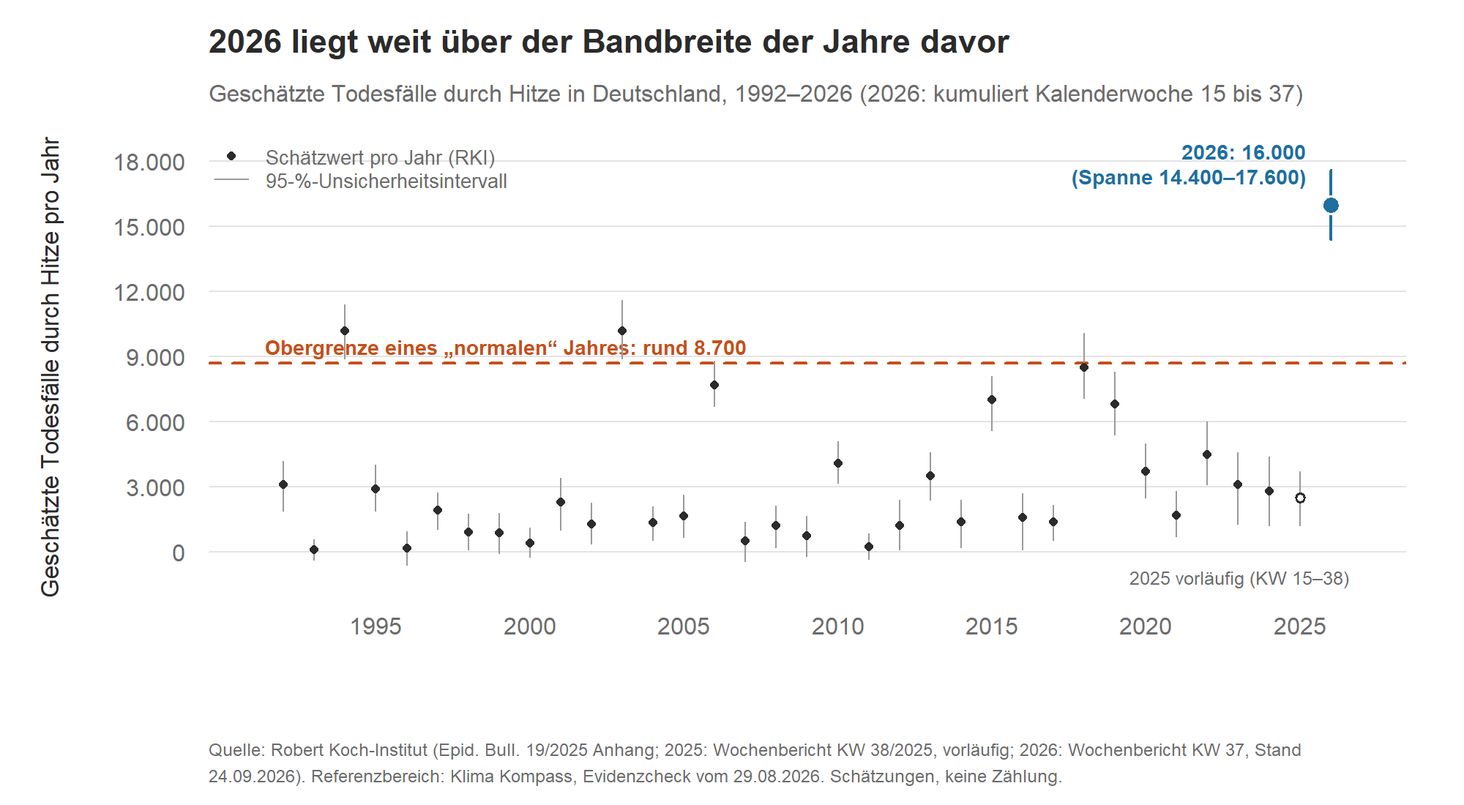
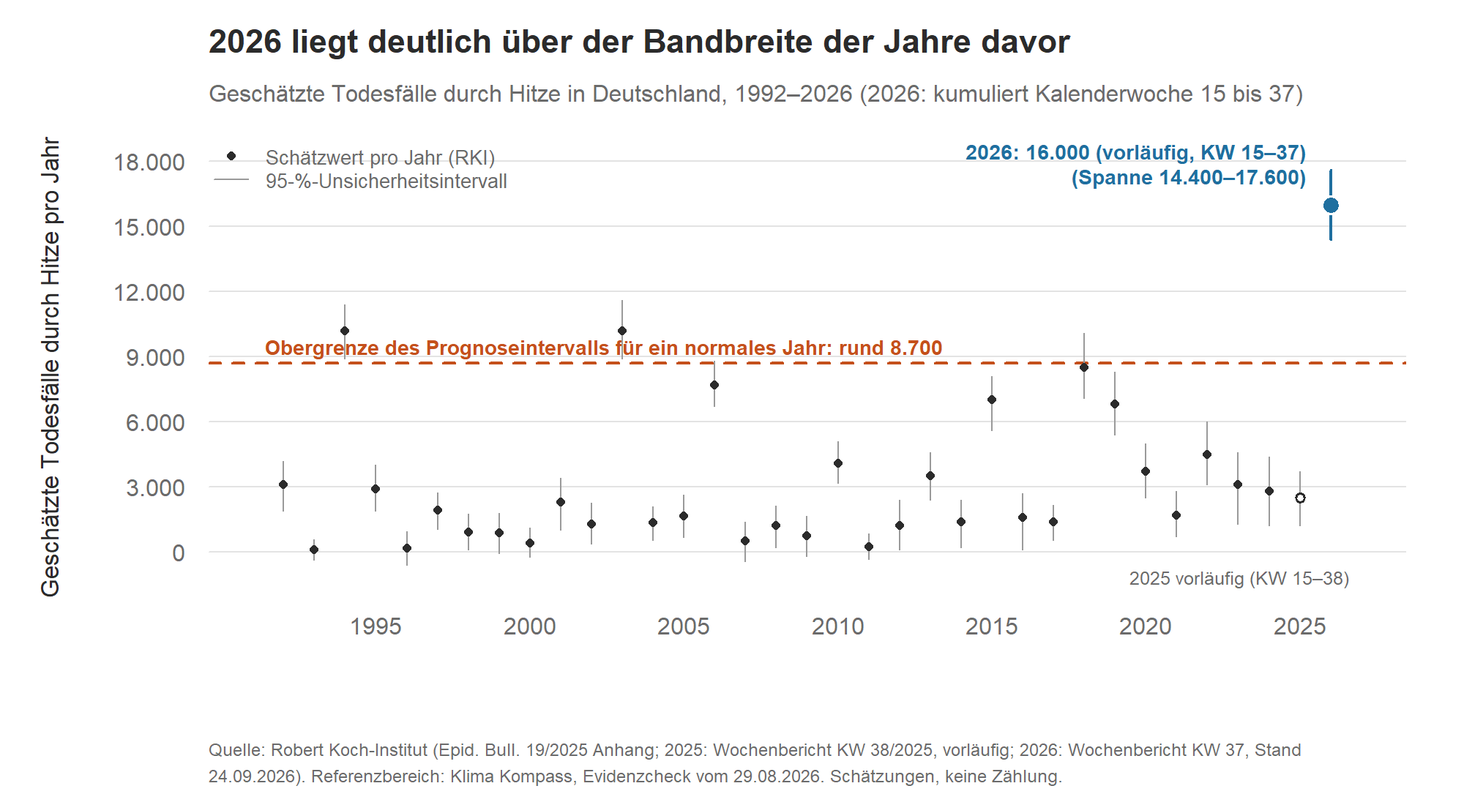
Jahrbuch 2026: Faktencheck Kapitel 1 Nachtrag 5 (ok mit Auflagen), Kapitel 1 v0.8 mit N26-N30, Grafikbeschriftungen angepasst
Freigabe durch Daniel Saure steht aus.

diff --git a/Publikationen-oeffentlich/jahrbuch-2026/pruefung/faktencheck_kap01.md b/Publikationen-oeffentlich/jahrbuch-2026/pruefung/faktencheck_kap01.md
@@ -596,7 +596,7 @@ Alle acht sind in v0.6 umgesetzt (Textstellen):
 6. **N24 (gering), Platzhalter [GRAFIK 1] und [GRAFIK 2]:** (a) GRAFIK 1: Quelle „DWD, Climate Data Center, Stand 2. September 2026“ statt „[1]“; Werte 2025 und 2026 als vorläufig kennzeichnen; Einstufungsbänder als „Konvention dieses Checks“ beschriften (Validator AV4). (b) GRAFIK 2: Quelle „RKI (EB 19/2025 Anhang, Wochenbericht KW 38/2025, Wochenbericht KW 37/2026) [4][6], Obergrenze aus [3]“ statt „[3] und [4]“; 2025 als vorläufig kennzeichnen; festlegen, ob für 2026 der KW-37-Wert (16.000 [14.400; 17.600], wie im Text) gezeigt wird; Einheit „geschätzte Sterbefälle pro Jahr (kumuliert KW 15 bis KW 38 bzw. 37)“ und Datenstand angeben.
 7. **N25 (gering), Z. 61:** „die geschätzten 16.000 Todesfälle durch Hitze“ passt zur sensiblen Sprache, schreibt aber das Wort „geschätzten“ dem Interview zu. Vorschlag: „Als Belege nennt er unter anderem die 16.000 Todesfälle durch Hitze (eine RKI-Schätzung) und den MedienKlimaBericht ...“ oder wörtlich nach [5]: „... die „16.000 Hitzetoten“ dieses Sommers ...“ (Zitat nach [5], als Zitat zulässig).
 
-**Empfehlungen (nicht zwingend):**
+**Empfehlungen (nicht zzwingend):**
 
 - **E12:** Titel „... und welche Folgen hatte er?“: „Folgen“ legt Kausalität nahe (und deckt die Mediendebatte nicht). Alternativen: „War dieser Sommer normal, und was zeigen die Zahlen zu Todesfällen und Berichterstattung?“ oder „... und was sagen die Zahlen?“. Kapitelplan, Gliederung (beide) und Überblick R2 an den endgültigen Titel angleichen (dort noch „was hat er gekostet?“).
 - **E13:** In „Woher wir das wissen“ die WWA-Quelle und den Zugriff vom 23.10.2026 nennen („Attribution: WWA, Seite am 23.10.2026 ausgewertet [9]“).
@@ -634,4 +634,132 @@ Alle acht Auflagen aus Nachtrag 3 sind erfüllt. Die neuen Teile sind überwiege
 - **MedienKlimaBericht-PDF online:** nur lokale Textkopie.
 - **Commit-Diff v0.5/v0.6:** kein Git-Zugriff; Vergleich gegen den in Nachtrag 3 geprüften Text und die jeweils aktuelle Datei. Änderungen in v0.5, die in v0.6 wieder überschrieben wurden, sind nicht erfasst.
 - **Grafiken selbst:** nur Platzhalterbeschreibungen; Grafikdateien und Werte werden nach Erstellung gegen die Quellen zu prüfen sein.
+- **Wortzahl und Umfang:** nicht gezählt.
+
+---
+
+## Nachtrag 5 (Prüfung nach v0.7, Grafiken)
+
+**Geprüft:** `Publikationen-oeffentlich/jahrbuch-2026/kapitel/01-sommer.md`, v0.7 (Kopfzeile „ENTWURF v0.7 (23.10.2026)“) und die drei Grafiken `grafiken/kap01_grafik1_sommertemperatur.png`, `kap01_grafik2_todesfaelle_hitze.png`, `kap01_grafik3_klima_minuten.png` samt Skript `grafiken/kap01_grafiken.R`. Weder Kapitel noch Grafikdateien verändert. Zeilenangaben „Z.“ beziehen sich auf v0.7.
+**Prüfdatum:** 23.10.2026
+**Prüfer:** Subagent `faktenpruefer` (unabhängig, nicht Autor). **Dieser Nachtrag enthält keinen Freigabevermerk.**
+**Herangezogen:** die PNG-Dateien (als Bilder gelesen), das R-Skript (vollständig), `Analysen/2026-09-sommer-2026-normal/rohdaten/dwd_sommer_deutschland.csv` (Zeilen 120–147) und `output/ergebnisse.json` (Integritätsblock), `Analysen/2026-08-hitzesommer-2026/rki_hitzebedingte_sterbefaelle_rohdaten.csv` (vollständig), MedienKlimaBericht-Textkopie (Nachtrag 4), `gliederung_kap01-06.md`, `gliederung_kap07-10.md` (Kap. 8), `kapitelplan.md` (Titelzeile). Nicht ausgeführt: das R-Skript (R nicht verfügbar); die Bilder wurden mit den Skript-Daten abgeglichen.
+
+### N5.1 Status der Auflagen N19–N25 und Empfehlungen E12–E16
+
+| Punkt | Status | Textstelle in v0.7 | Prüfhinweis |
+|---|---|---|---|
+| **N19** Gültigkeitsbereich WWA, Deutschland | **erfüllt** | Z. 63: „Sie untersucht die Hitzewelle vom 18. bis 29. Juni in Westeuropa (Frankreich, Deutschland, Italien, Spanien, Südengland). Für Deutschland allein nennt die Seite keine eigenen Zahlen.“ | Deckt sich mit der Seite (Länderliste, 18.–29. Juni, keine eigene Auswertung für Deutschland). Feinhinweis in N30. |
+| **N20** „Klima von 1976/2003“, „als heute“ | **erfüllt** | Z. 65: „Die Initiative vergleicht die Hitzewelle mit dem Klima früherer Jahre. Im Klima von 1976 wären solche Temperaturen im Juni „praktisch unmöglich“ gewesen („virtually impossible“). Im Klima von 2003 wären die Tageshöchstwerte etwa zehnmal und die Nachttemperaturen mehr als hundertmal seltener gewesen als heute [9].“ | Entspricht dem Seitenwortlaut („about 10 times less likely than today“, „more than a hundred times less likely in 2003“). „Tageshöchstwerte“ ist eine leichte Präzisierung von „daytime heat“ (die Seite spricht an anderer Stelle von Tageshöchstwerten); vertretbar. |
+| **N21** „Schnellstudie“ | **erfüllt** | Z. 63 „eine Analyse veröffentlicht [9]“; Z. 122 [9]: „(Analyse zur Juni-Hitzewelle 2026; Seite am 23.10.2026 ausgewertet; Studienbericht: Imperial College London, DOI 10.25560/130926)“ | „Analyse“ ist neutral; DOI stimmt mit der Repository-Seite (10.25560/130926). |
+| **N22** Bericht ist gröber | **erfüllt** | Z. 65: „Der MedienKlimaBericht schreibt dazu gröber: Ohne die Erderhitzung wäre die Juni-Hitzewelle so gut wie unmöglich gewesen [8]. Das steht so nicht auf der Seite der Initiative.“ | Bericht Z. 179–181 richtig wiedergegeben; Hinweis auf die Seite zutreffend (Seitenabfrage 23.10.). Der Zusatz beschränkt sich auf „die Seite“; ob der Volltext der Studie eine solche Aussage enthält, ist nicht geprüft (siehe N5.8). |
+| **N23** Todesfälle in der WWA-Quelle | **erfüllt** | Z. 67: „Für Deutschland nennt sie keine Todesfallzahlen, für Frankreich mindestens 40 gemeldete Todesfälle in dieser Hitzewelle [9]. Mit unseren Zahlen zu den Sterbefällen (April bis September) lässt sich das nicht verrechnen.“ | Seite: Frankreich „already reporting at least 40 fatalities“; keine deutschen Zahlen. Die letzte Aussage ist beschreibend (kein Rechenschritt). |
+| **N24** Quellen der Grafiken | **erfüllt (Texte); Grafik 2 siehe N5.3** | Z. 34: „Quelle: DWD, Climate Data Center, Stand 2. September 2026 (Werte 2025 und 2026 vorläufig).“ Z. 44: „Quelle: RKI (Epidemiologisches Bulletin 19/2025 Anhang; 2025: Wochenbericht KW 38/2025, vorläufig; 2026: Wochenbericht KW 37, Stand 24. September 2026, kumuliert für KW 15 bis 37) [4][6]. Die Obergrenze von rund 8.700 stammt aus [3].“ | Quellen jetzt richtig zugeordnet (DWD statt [1]; RKI-Bulletin/Wochenberichte statt [3]). 2025 ist als vorläufig gekennzeichnet; 2026 wird als „kumuliert für KW 15 bis 37“ beschrieben; ein ausdrückliches „vorläufig“ für 2026 steht in Z. 44 nicht (Z. 52 sagt es im Fließtext). |
+| **N25** Zitat „16.000 Hitzetoten“ | **erfüllt** | Z. 71: „Als Belege nennt er unter anderem die „16.000 Hitzetoten“ dieses Sommers (eine Schätzung des RKI) und den MedienKlimaBericht ... [5][7].“ | Zitat entspricht [5] (dort „16.000 Hitzetoten“ als Zitat); der Zusatz in Klammern ist erkennbar von uns. Zitate in Anführungszeichen sind laut stilregeln zulässig. Das Interview selbst bleibt nicht prüfbar (403). |
+| **E12** Titel | **erfüllt** | Z. 4: „War dieser Sommer normal, und was sagen die Zahlen?“ | Die Kausalität („Folgen“) ist weg. `gliederung_kap01-06.md` (Z. 27) und `kapitelplan.md` (Z. 53) tragen denselben Titel. |
+| **E13** Attribution in „Woher wir das wissen“ | **erfüllt** | Z. 110: „Attribution: World Weather Attribution, Seite am 23.10.2026 ausgewertet [9].“ | |
+| **E14** Alterung | **erfüllt** | Z. 57: „Wie viel das ausmacht, haben wir nicht untersucht, und mit diesen Daten lässt es sich nicht trennen.“ | Deckt sich mit run_log (Limitation 4, „mit diesen Daten nicht trennbar“). |
+| **E15** Gliederung Kap. 8 | **erfüllt** | `gliederung_kap07-10.md` Z. 46: „... wird die 9.400 im Analyseplan genannt und ließ sich in drei geprüften RKI-Ausgaben ... nicht bestätigen“ | Angeglichen an Kapitel 1; widerspruchsfrei. |
+| **E16** Herkunftstabelle | **erfüllt** | Z. 133 „Todesfälle durch Hitze“, Z. 139 „Stilpass (v0.4, seither fortgeschrieben bis v0.7)“ | Prüfhilfe, nicht Buchtext (A14). |
+
+### N5.2 Grafik 1: `kap01_grafik1_sommertemperatur.png`
+
+| Nr. | Element | Quelle / Befund | Ergebnis | Hinweis |
+|---|---|---|---|---|
+| 1 | Titel „Der Sommer 2026 war der zweitwärmste seit 1881“; Untertitel „Sommermittel Deutschland, 1881–2026, mit den Normalwerten 1961–1990 und 1991–2020“ | [1], `ergebnisse.json` (Rang 2 seit 1881) | bestätigt | |
+| 2 | Datenreihe 1881–2026 | Skript liest `dwd_sommer_deutschland.csv` (Zeilen 1881–2026, 146 Werte; Prüfsummen laut Analysebericht identisch mit DWD-Datei) | bestätigt | Keine Handeingabe der Reihe; im Bild sind Verlauf und 2003-Spitze (19,67), Anstieg seit ca. 1990 und 2018/2019 (19,31/19,25) erkennbar. |
+| 3 | 2026 hervorgehoben, Beschriftung „2026: 19,6 °C“ | CSV 2026 = 19,55 (Zeile 147); DWD-Pressemitteilung 19,6 | bestätigt | Punkt wird bei 19,55 gezeichnet, Beschriftung runden auf 19,6 wie im Kapitel. |
+| 4 | 2003 hervorgehoben (offener Kreis, Beschriftung „2003“) | CSV 2003 = 19,67 | bestätigt | Das Bild zeigt 2003 als einzigen Sommer über 2026; passt zu „zweitwärmster“. |
+| 5 | Blauer Strich „Normal 1961–1990 = 16,3 °C“ (Segment 1961–1990) | `ergebnisse.json`: Mittel 16,267; [1]: 16,3 | bestätigt | Gezeichnet bei 16,3 (gerundet; Abweichung 0,03 K, im Bild nicht sichtbar). |
+| 6 | Oranger Strich „Normal 1991–2020 = 17,6 °C“ (Segment 1991–2020) | `ergebnisse.json`: Mittel 17,553; [1]: 17,6 | bestätigt | Gezeichnet bei 17,6 (gerundet; Abweichung 0,05 K). |
+| 7 | Raute „Trendwert 2026 (Trend 1971–2025): 18,5 °C“ | [1], Analysebericht (ŷ 18,472) | bestätigt | Im Bild bei 18,5 gezeichnet (gerundet); die Raute liegt nahe der Datenreihe 2023–2025. |
+| 8 | Quellenzeile „Quelle: Deutscher Wetterdienst, Climate Data Center, Gebietsmittel Deutschland (Stand 02.09.2026; Werte 2025 und 2026 vorläufig). Auswertung: Klima Kompass, Evidenzcheck vom 11.09.2026.“ | DWD-Datei „erstellt am 20260902“; [1] | bestätigt | Einheit, Datenstand und Quelle vorhanden (stilregeln „Grafiken“). |
+| 9 | Neue Rechnung in der Grafik? | Skript Z. 23–53 | bestätigt (keine) | Nur Einlesen und Zeichnen; Normalwerte und Trendwert sind feste Zahlen aus [1]. |
+| 10 | Lesbarkeit | Bild | bestätigt, mit Hinweis | Die Beschriftung „Trendwert 2026 (Trend 1971–2025): 18,5 °C (Raute)“ schneidet die Gitterlinie bei 18; rechts von 2026 bleibt viel leere Fläche (x-Achse bis 2078, nur Platz für Beschriftungen) und die Achse endet bei 2020. Rein gestalterisch; Empfehlung E17. |
+| 11 | Bildunterschrift im Kapitel (Z. 34) | Grafik, [1] | bestätigt | „Dargestellt sind die Ergebnisse aus [1], keine neue Rechnung.“ stimmt (Daten DWD, Kennwerte aus [1]). |
+
+### N5.3 Grafik 2: `kap01_grafik2_todesfaelle_hitze.png`
+
+| Nr. | Element | Quelle / Befund | Ergebnis | Hinweis |
+|---|---|---|---|---|
+| 12 | Titel „2026 liegt weit über der Bandbreite der Jahre davor“ | CSV: höchste Jahreswerte 1994/2003 je 10.200, höchste obere Intervallgrenze 11.600 (2003); 2026 16.000 [14.400; 17.600] | bestätigt, mit Hinweis | Die Aussage stimmt (auch die Untergrenze 14.400 liegt über jedem Jahresintervall 1992–2025). „weit“ ist stärker als die Kapitelformulierung „deutlich außerhalb“; E17. Zu beachten: 2026 ist ein unvollständiger Zeitraum (KW 15–37), die Vorjahre sind Saisonschätzungen; das macht den Vergleich konservativ. |
+| 13 | Datenpunkte und Intervalle 1992–2024 (schwarze Punkte, graue Linien) | CSV (Zeilen 1992–2024, EB-19-2025 Anhang) | bestätigt | Skript liest die CSV unverändert. Stichproben im Bild: 1994 ≈ 10.200 [8.900; 11.400], 2003 ≈ 10.200 [8.900; 11.600], 2006 ≈ 7.700, 2015 ≈ 7.000, 2018 ≈ 8.500 [7.100; 10.100], 2019 ≈ 6.800, 2022 ≈ 4.500. Negative Intervall-Untergrenzen (z. B. 1993, 1996) reichen unter die 0-Linie, so wie in den RKI-Daten. |
+| 14 | 2025 (offener Kreis, Beschriftung „2025 vorläufig (KW 15–38)“) | CSV 2025: 2.500 [1.200; 3.700], „KW38/2025, vom RKI als noch unvollständig gekennzeichnet“ | bestätigt, mit Hinweis | Der Wert stimmt. Die Beschriftung steht unten rechts unter der Achse, getrennt vom Punkt; der offene Kreis ist nicht in der Legende erklärt. Siehe N28. |
+| 15 | 2026: blauer Punkt 16.000, Spanne 14.400–17.600 | RKI-Seite live (KW 37, Stand 24.09.2026) | bestätigt | Im Skript fest eingetragen, nicht aus der CSV (dort 15.800 [14.500; 17.000], KW 33). Der Untertitel nennt „2026: kumuliert Kalenderwoche 15 bis 37“. Die Beschriftung am Punkt nennt „vorläufig“ nicht. Siehe N28. |
+| 16 | Gestrichelte Linie „Obergrenze eines „normalen“ Jahres: rund 8.700“ | [3] („maximal rund 8.700“), run_log (PI-Obergrenze 8.671) | **Abweichung (mittel)** | Die Linie ist die Obergrenze des 95-%-Prognoseintervalls des Referenzmodells, nicht ein Höchstwert. Das Etikett sagt „Obergrenze eines normalen Jahres“, ohne dass das Wort „Prognoseintervall“ vorkommt, und zwei Jahre (1994, 2003; zusätzlich die Intervallspitzen von 2018 und 2015) liegen im Bild sichtbar darüber. Ein Betrachter kann „Obergrenze“ als Maximum lesen und die beiden Jahre als „nicht normal“ oder die Linie als falsch. Das Kapitel verweist auf diesen Punkt (Z. 46), erklärt die Linie aber erst danach (Z. 48). Siehe N26. Wert 8.700 (gegenüber 8.671) ist die Rundung aus [3]. |
+| 17 | Legende: „Schätzwert pro Jahr (RKI)“, „95-%-Unsicherheitsintervall“ | RKI (95-%-Prädiktionsintervall, run_log Schritt 3) | bestätigt | „Unsicherheitsintervall“ passt zum Sprachgebrauch im Kapitel. |
+| 18 | Quellenzeile im Bild | Skript Z. 82 | bestätigt | „Robert Koch-Institut (Epid. Bull. 19/2025 Anhang; 2025: Wochenbericht KW 38/2025, vorläufig; 2026: Wochenbericht KW 37, Stand 24.09.2026). Referenzbereich: Klima Kompass, Evidenzcheck vom 29.08.2026. Schätzungen, keine Zählung.“ Stimmt mit den Quellen überein. |
+| 19 | Mischung von Jahreswerten und kumulierten Teilzeiträumen | CSV, RKI | bestätigt, mit Hinweis | 1992–2024: Jahres-/Saisonschätzungen aus EB 19/2025; 2025: kumuliert bis KW 38 (laut RKI unvollständig); 2026: kumuliert bis KW 37 (Saison nicht abgeschlossen). Die Grafik kennzeichnet 2025 im Bild und 2026 im Untertitel; die Bildunterschrift im Kapitel nennt beides. Irreführend ist es nicht (der Vergleich unterschätzt 2026 eher). Ausreichender wäre ein ausdrückliches „vorläufig“ am 2026-Punkt und ein Satz in der Bildunterschrift, dass 1992–2024 Saisonschätzungen sind (N28). |
+| 20 | Sprachliche Sensibilität | Bild | bestätigt | „Geschätzte Todesfälle durch Hitze“ in Achse, Titel, Untertitel; kein „Hitzetote“; „Schätzungen, keine Zählung“ in der Quellenzeile. |
+| 21 | Lesbarkeit | Bild | bestätigt, mit Hinweis | Das Etikett der Linie wird von den Intervallstrichen von 1994 und 2003 durchkreuzt (im Bild sichtbar: Linien laufen durch „Obergrenze“ und „Jahres:“). Legende oben links berührt die 18.000-Gitterlinie. Gestalterisch; E17. |
+| 22 | Neue Rechnung in der Grafik? | Skript Z. 55–83 | bestätigt (keine) | Feste Zahlen: 8.700, 16.000, 14.400, 17.600. |
+| 23 | Bildunterschrift im Kapitel (Z. 44) | Grafik, Quellen | bestätigt, mit Hinweis | Inhalt richtig; es fehlt der Hinweis, dass 2026 vorläufig ist und 1992–2024 Saisonschätzungen sind (N28). |
+| 24 | Neuer Satz Z. 46: „In der Grafik fällt auf: Auch 1994 und 2003 lagen mit je rund 10.200 über der Linie.“ | CSV: 1994 10.200 [8.900; 11.400], 2003 10.200 [8.900; 11.600] | bestätigt | Beide Werte stimmen; beide liegen über 8.700. Die Linie wird an dieser Stelle noch nicht erklärt (Z. 48 danach). |
+| 25 | „Das passt dazu, dass die Jahreswerte rechtsschief verteilt sind.“ | Validierungsbericht Prio 1 (Extremjahre 1994 und 2003 treiben die Rechtsschiefe), [3] | Abweichung (gering) | Zusammenhang ist plausibel und im Validierungsbericht belegt, aber in [3] nicht ausgesprochen; es ist eine kleine Deutung. Besser deskriptiv: „Das sind zugleich die beiden höchsten Jahreswerte der Reihe.“ (stimmt: 10.200 ist das Maximum 1992–2025). Siehe N27. |
+| 26 | „2026 liegt aber deutlich darüber, selbst das untere Ende der Spanne (14.400) liegt höher als diese beiden Jahre.“ | CSV (Intervallenden 11.400 und 11.600) | bestätigt, mit Hinweis | Stimmt sowohl gegenüber den Schätzwerten (10.200) als auch gegenüber deren oberen Intervallgrenzen (11.400, 11.600). Es ist eine beschreibende Ablesung aus der Grafik, keine neue Berechnung. Anders als der in Faktencheck 17.10. (Nr. 16) beanstandete Vergleich (RKI-Untergrenze gegen die Obergrenze des Metaanalyse-Intervalls) werden hier gleichartige RKI-Jahreswerte verglichen; trotzdem ist „höher als diese beiden Jahre“ knapp: Vorschlag „höher als die Schätzwerte dieser beiden Jahre (und als deren obere Intervallgrenzen von 11.400 und 11.600)“ (N27). Hinweis: 2026 ist kumuliert bis KW 37; das Argument bleibt dadurch eher vorsichtig. |
+| 27 | Widerspruchsprüfung Z. 46 / Z. 48 / Z. 50 | Text | Abweichung (mittel) | Z. 48: „Ein normales Jahr läge demnach bei bis zu etwa 8.700. So weit reicht das 95-Prozent-Prognoseintervall nach oben.“ Z. 46: 1994 und 2003 lagen mit 10.200 darüber. Beide Aussagen sind gemeinsam stimmig, sobald klar ist, dass 8.700 die Obergrenze eines Intervalls ist, kein Maximum; der Text sagt das erst in Z. 48 und die Grafik (Label „Obergrenze eines normalen Jahres“) gar nicht. Ein Leser sieht zuerst die Linie als „Obergrenze eines normalen Jahres“ und dann zwei Jahre darüber. Siehe N26. Z. 50 („schon die Obergrenze liegt weit unter dem Wert von 2026“) bleibt richtig. |
+
+### N5.4 Grafik 3: `kap01_grafik3_klima_minuten.png`
+
+| Nr. | Element | Quelle / Befund | Ergebnis | Hinweis |
+|---|---|---|---|---|
+| 28 | Acht Werte (Das Erste: 2,2 / 1,49 / 1,29 / 0,95; ZDF: 1,95 / 1,43 / 1,29 / 0,82) | MedienKlimaBericht Kap. 2.1 und 4 (Textkopie Z. 115–121, 415–416), [5] | bestätigt | Skript Z. 87–90 mit denselben acht Zahlen. Beschriftete Punkte im Bild: 2,2 % und 1,95 % (2023), „Das Erste 0,95 %“ und „ZDF 0,82 %“ (1. Halbjahr 2026). Die Werte 2024 und 2025 werden nicht beschriftet (stehen in der Tabelle); 2025 fallen beide Punkte zusammen (1,29), im Bild ist nur ein Punkt sichtbar. |
+| 29 | Titel „Der Klima-Anteil im Programm sinkt“ | Bericht Z. 115 („Seit 2023 nimmt die Klimaberichterstattung ... Jahr für Jahr ab“), Z. 415–416 | bestätigt, mit Hinweis | Die Aussage ist durch den Bericht selbst und alle vier Datenpunkte beider Sender gedeckt (jeder Wert niedriger als der vorige). Das Präsens „sinkt“ klingt aber nach laufender Entwicklung/Vorhersage; belegt ist ein Rückgang von 2023 bis zum 1. Halbjahr 2026 (letzter Punkt ein Halbjahr). Vorschlag: „Der Klima-Anteil im Programm ist seit 2023 gesunken“ oder „... laut KLIMA° vor acht“. Siehe N29. |
+| 30 | Untertitel, Achse, Linien | Bild | bestätigt | „Sendeminuten mit dem Wort „Klima““ ist verkürzt gegenüber „Zeichenfolge ‚Klima‘“ (z. B. „Klimakrise“); die Quellenzeile sagt „Zeichenfolgen-Zählung“. Die Verbindungslinie zwischen Jahreswert 2025 und Halbjahreswert 2026 suggeriert eine gleichartige Zeitreihe; Halbjahr ist auf der Achse beschriftet („1. Halbjahr 2026“). Nullpunkt der y-Achse vorhanden (gut). |
+| 31 | Quellenzeile „Quelle: KLIMA° vor acht e. V., MedienKlimaBericht Nr. 1 (Juli 2026). Zeichenfolgen-Zählung nach eigenen Angaben des Vereins (Präzision 94 %, Erfassung 89 %), also keine Qualitätsmessung.“ | Bericht Anhang A | bestätigt | Precision 94 %, Recall 89 % (hier „Erfassung“); Kennzeichnung der Quelle als Verein mit eigenen Angaben ist vorhanden. |
+| 32 | Bildunterschrift im Kapitel (Z. 86) | Grafik, [5], [8] | bestätigt | „Zahlen wie in [5]“ stimmt; Zeichenfolge/Qualitätshinweis vorhanden. |
+| 33 | Neue Rechnung in der Grafik? | Skript Z. 85–108 | bestätigt (keine) | |
+
+### N5.5 Gesamttext v0.7: neue Stellen und Widersprüche
+
+| Nr. | Stelle | Befund | Ergebnis |
+|---|---|---|---|
+| 34 | Z. 42–48 Reihenfolge | Grafik 2 (Z. 42–44), dann Beobachtung zu 1994/2003 (Z. 46), dann die Erklärung der 8.700 (Z. 48) und der Rechtsschiefe (Z. 50). Der Leser bekommt die Beobachtung vor der Definition der Linie. | Abweichung (gering), siehe N26 |
+| 35 | Z. 6 und Z. 52 mit 16.000 und 15.800 | Text nennt beide Werte und erklärt „damals vorläufig“ bzw. „mit denen wir gerechnet hatten“; die Grafik zeigt den KW-37-Wert 16.000. | bestätigt |
+| 36 | Z. 63–67 WWA-Absatz (drei Absätze) | Alle Zahlen und Aussagen gegen die Seite geprüft (siehe N5.1); keine neue Berechnung. Feinheiten: Der Seitentext datiert 26. Juni und nennt den Zeitraum bis 29. Juni; „Westeuropa“ (Seitentext für das Erwärmungsmuster) und die Länderliste (mit Italien) sind nicht deckungsgleich. | bestätigt, mit Hinweis, siehe N30 |
+| 37 | Z. 71 | „16.000 Hitzetoten“ steht in Anführungszeichen als Zitat nach [5] (Interview nicht prüfbar); „Hitzetote“ sonst nicht im Buchtext. | bestätigt |
+| 38 | Neue Inferenz/Überhöhung | Keine neue Berechnung. Kleine Deutung in Z. 46 („Das passt dazu ...“, N27). Titel „weit über“ in Grafik 2 und „sinkt“ in Grafik 3 sind etwas stärker als die Textformulierungen (E17, N29). | siehe N27, N29 |
+| 39 | Kopfzeile Z. 1, Herkunftstabelle (Z. 126–139), Bild-Links | Prüfhilfen; Bilder sind relativ verlinkt (`../grafiken/...`). | offen bis Export (A14) |
+
+### N5.6 Neue Befunde mit Änderungsvorschlag
+
+**Neue Auflagen (keine kritisch; 5):**
+
+1. **N26 (mittel), Grafik 2 (Beschriftung der Linie) und Z. 42–48 (Reihenfolge, Erklärung):**
+   - Grafik: Etikett „Obergrenze eines „normalen“ Jahres: rund 8.700“ ändern in „Obergrenze des 95-%-Prognoseintervalls (Referenzmodell): rund 8.700“ (oder „obere Grenze des Referenzbereichs“). Das Wort „normal“ nur im Text verwenden, mit der Erklärung. Entsprechend den Alt-Text in Z. 42 („... Obergrenze eines normalen Jahres“) anpassen.
+   - Text: Erst die Linie erklären, dann die Beobachtung zu 1994/2003. Vorschlag für Z. 46 (nach Verschieben hinter Z. 48 oder vorangestellter Erklärung): „Die Linie ist die obere Grenze des 95-Prozent-Prognoseintervalls, kein Höchstwert. Auch 1994 und 2003 lagen mit je rund 10.200 darüber; das sind zugleich die höchsten Jahreswerte der Reihe. 2026 liegt deutlich darüber: Selbst das untere Ende der Spanne (14.400) ist höher als die Schätzwerte dieser beiden Jahre.“
+   - Begründung: Faktencheck Nr. 27 (8.700 ist kein Höchstwert), Widerspruch zwischen „Obergrenze eines normalen Jahres“ und zwei Jahren darüber.
+2. **N27 (gering), Z. 46:** „Das passt dazu, dass die Jahreswerte rechtsschief verteilt sind.“ durch eine beschreibende Aussage ersetzen („... das sind zugleich die höchsten Jahreswerte der Reihe“, CSV: Maximum 10.200) oder streichen; „höher als diese beiden Jahre“ präzisieren („höher als die Schätzwerte dieser beiden Jahre und als deren obere Intervallgrenzen von 11.400 und 11.600“). Begründung: Der Zusammenhang mit der Rechtsschiefe ist eine Deutung, die [3] nicht enthält (der Validierungsbericht belegt ihn), und „höher als diese beiden Jahre“ lässt offen, ob Schätzwert oder Intervall gemeint ist.
+3. **N28 (gering), Grafik 2 und Z. 44:** 2026 im Bild ausdrücklich als vorläufig kennzeichnen (z. B. Beschriftung „2026: 16.000 (vorläufig, KW 15–37; Spanne 14.400–17.600)“); „2025 vorläufig (KW 15–38)“ neben den Punkt setzen oder den offenen Kreis in der Legende erklären („offen: vorläufig, unvollständige Saison“); Bildunterschrift Z. 44 ergänzen: „1992 bis 2024 sind Saisonschätzungen, 2025 und 2026 sind vorläufig (unvollständige Saison).“ Begründung: Jahreswerte und kumulierte Teilzeiträume stehen in einer Reihe (Faktencheck Nr. 19); die Kennzeichnung soll am Punkt stehen, nicht nur im Untertitel.
+4. **N29 (gering), Grafik 3, Titel:** „Der Klima-Anteil im Programm sinkt“ ändern in „Der Klima-Anteil im Programm ist seit 2023 gesunken“ (oder „... laut KLIMA° vor acht“). Zusätzlich 2024 und 2025 im Bild beschriften oder den Hinweis „2025: beide Sender 1,29 %“ ergänzen, damit der zusammenfallende Punkt nicht als fehlender Wert gelesen wird. Begründung: belegt ist ein Rückgang über vier Zeitpunkte (Bericht: „Jahr für Jahr“), nicht ein andauernder Trend; das Präsens klingt nach Prognose.
+5. **N30 (gering), Z. 63:** Den Zeitraum und die Region genauer fassen: „Sie untersucht die Hitzewelle vom 18. bis 29. Juni (Seite vom 26. Juni) in Frankreich, Deutschland, Italien, Spanien und Südengland ...“; „Westeuropa“ vermeiden oder erklären (die Seite nennt Westeuropa für den Erwärmungstrend im Juni, die Länderliste enthält Italien). Begründung: Die Seite ist auf den 26. Juni datiert und nennt einen Zeitraum bis 29. Juni; ein Leser kann das als Widerspruch lesen, und „Westeuropa (… Italien …)“ ist ungenau.
+
+**Empfehlungen (nicht zwingend):**
+
+- **E17:** Gestaltung: Grafik 2 Titel „weit über“ passend zum Text als „deutlich über“ formulieren; Etikettenposition in Grafik 2 so wählen, dass die Intervallstriche von 1994 und 2003 den Text nicht kreuzen; Grafik 1: Beschriftung „Trendwert 2026 ...“ von der Gitterlinie lösen und die leere rechte Fläche (x-Achse bis 2078) kürzen.
+- **E18:** In Grafik 1 optional kennzeichnen, dass die Normalwerte als gerundete Mittel gezeichnet sind (16,3 und 17,6; exakt 16,267 und 17,553): kein Handlungsbedarf, nur Transparenz.
+- **E19:** Beim Export die Grafiken mit Alt-Text und Bildunterschrift prüfen (Zahlenwerte gegen Quellen: erledigt in diesem Nachtrag), und das R-Skript im Repo mit Datum und Datenstand versionieren (öffentliches Repo; Aufruf `Rscript kap01_grafiken.R` im Repo-Wurzelverzeichnis).
+
+### N5.7 Gesamturteil Nachtrag 5: **ok mit Auflagen**
+
+Alle sieben Auflagen aus Nachtrag 4 (N19–N25) und alle fünf Empfehlungen (E12–E16) sind erfüllt. Die drei Grafiken geben die Quellenzahlen richtig wieder: Grafik 1 (DWD-Reihe, 19,55 als 19,6 beschriftet, 2003 19,67, Normalwerte 16,3 und 17,6, Trendwert 18,5) und Grafik 3 (acht Zahlen) ohne Abweichung, Grafik 2 (CSV-Werte 1992–2025, 2026 = 16.000 [14.400; 17.600], Linie 8.700) in den Zahlen richtig. In keiner Grafik wird neu gerechnet. Offen bleibt vor allem die Benennung der Linie in Grafik 2 („Obergrenze eines normalen Jahres“) und die Reihenfolge der Erklärung im Text (N26, mittel), dazu die Kennzeichnung von 2026 als vorläufig (N28), die Deutung in Z. 46 (N27), der Titel „sinkt“ (N29) und der Zeitraum/Region der WWA-Analyse (N30). Es gibt **5 neue Auflagen (N26–N30)**, davon 1 mittel (N26), die übrigen gering. Keine ist kritisch, keine Zahl in Text oder Grafik ist falsch. Zusätzlich 3 Empfehlungen (E17–E19).
+
+### N5.8 Was für die Freigabe noch zu erledigen ist
+
+1. N26–N30 einarbeiten (Grafik 2 und 3 neu rendern, Skript `kap01_grafiken.R` anpassen, Text Z. 42–48, 63) und Nachkontrolle als „Nachtrag 6“ festhalten (Dokumentationspflicht).
+2. Grafikdateien nach der Änderung erneut gegen die Quellen prüfen (Werte, Beschriftung, Überlappungen); Skript einmal ausführen und das PNG mit dem Stand vergleichen.
+3. A14: Kopfzeile (Z. 1) und Herkunftstabelle (ab „## Herkunftstabelle“) vor Satz/Export entfernen; Wortzahl (Gliederung: 1.200–1.600) vom Redaktionsteam prüfen.
+4. Kapitel 8: Fall „Vergleichszahl 2018“ muss im Buch stehen (Verweis in Z. 59); eigene Faktenprüfung; Entscheidung zum Hinweis im Substack-Artikel [3] steht aus.
+5. Treibhauspost #125 (Z. 71, Zitat „16.000 Hitzetoten“): Prüfung am Originaltext durch Daniel Saure als Datei dokumentieren.
+6. Stichtag 15.11.: DWD-Datei (erstellt 20260902), RKI-Seite, WWA-Seite, SAP-Stand Prognose-Register erneut abgleichen (Grafikwerte 2025/2026 vorläufig).
+7. Freigabevermerk erst nach Volltextlektüre durch Daniel Saure (kapitelplan.md Abschnitt 5, CLAUDE.md Verifikationspflicht). Diese Datei enthält keinen.
+
+### N5.9 Was nicht geprüft werden konnte
+
+- **R-Skript nicht ausgeführt** (R nicht verfügbar): Ich habe die PNG-Dateien visuell mit den Daten des Skripts und der Quell-CSV verglichen; dass das Skript exakt diese PNG-Dateien erzeugt, ist nicht nachgewiesen. Die Prüfung aller 34 Punkte in Grafik 2 erfolgte stichprobenartig im Bild (1994, 2003, 2006, 2015, 2018, 2019, 2022, 2025); die Daten selbst stammen unverändert aus der CSV.
+- **WWA-Studienbericht (Volltext):** nur Seite und Repository-Metadaten (siehe Nachtrag 4); ob der Bericht eine Aussage „ohne Klimawandel“ trifft, ist nicht prüfbar.
+- **Treibhauspost #125:** 403; „16.000 Hitzetoten“ nur über [5].
+- **MedienKlimaBericht-PDF online:** nur lokale Textkopie.
+- **RKI-Rohreihe:** CSV-Werte 1992–2025 nicht gegen den RKI-Anhang (EB 19/2025) neu abgeglichen (ältere Prüfung: Validierungsbericht Prio 5 bestätigt 2018 = 8.500 im Anhang); 2025 laut CSV und RKI-Hinweis unvollständig.
+- **Commit-Diff v0.6/v0.7:** kein Git-Zugriff; geprüft wurde der Dateitext v0.7.
 - **Wortzahl und Umfang:** nicht gezählt.

diff --git a/Publikationen-oeffentlich/jahrbuch-2026/kapitel/01-sommer.md b/Publikationen-oeffentlich/jahrbuch-2026/kapitel/01-sommer.md
@@ -1,4 +1,4 @@
-**ENTWURF v0.7 (23.10.2026) – Auflagen N19–N25 und Empfehlungen E12–E16 aus Nachtrag 4 eingearbeitet, drei Grafiken eingebunden, Satz zu 1994/2003 ergänzt. Prüfung (Nachtrag 5: Grafiken und Text) ausstehend; nicht freigegeben. Diese Kopfzeile und die Herkunftstabelle am Ende nicht ins Buch übernehmen (A14: vor Satz/Export entfernen).**
+**ENTWURF v0.8 (23.10.2026) – Auflagen N26–N30 aus Nachtrag 5 eingearbeitet (Grafikbeschriftungen, Erklärung der Linie, Bildunterschrift, WWA-Zeitraum). Prüfung der Änderungen (Nachtrag 6) optional; Daniels Volltextlektüre und Freigabe stehen aus. Diese Kopfzeile und die Herkunftstabelle am Ende nicht ins Buch übernehmen (A14: vor Satz/Export entfernen).**
 
 
 # Kapitel 1 – War dieser Sommer normal, und was sagen die Zahlen?
@@ -41,9 +41,9 @@ Das Robert Koch-Institut (RKI) schätzt die hitzebedingten Sterbefälle jedes So
 
 ![Geschätzte Todesfälle durch Hitze pro Jahr 1992–2026 mit Unsicherheitsintervall und Obergrenze eines normalen Jahres](../grafiken/kap01_grafik2_todesfaelle_hitze.png)
 
-*Grafik 2: Geschätzte Todesfälle durch Hitze pro Jahr. Quelle: RKI (Epidemiologisches Bulletin 19/2025 Anhang; 2025: Wochenbericht KW 38/2025, vorläufig; 2026: Wochenbericht KW 37, Stand 24. September 2026, kumuliert für KW 15 bis 37) [4][6]. Die Obergrenze von rund 8.700 stammt aus [3]. Dargestellt sind vorhandene Zahlen, keine neue Rechnung.*
+*Grafik 2: Geschätzte Todesfälle durch Hitze pro Jahr. Quelle: RKI (Epidemiologisches Bulletin 19/2025 Anhang; 2025: Wochenbericht KW 38/2025, vorläufig; 2026: Wochenbericht KW 37, Stand 24. September 2026, kumuliert für KW 15 bis 37) [4][6]. Die Obergrenze von rund 8.700 stammt aus [3]. 1992 bis 2024 sind Saisonschätzungen, 2025 und 2026 sind vorläufig (unvollständige Saison). Die gestrichelte Linie zeigt die Obergrenze des 95-Prozent-Prognoseintervalls für ein normales Jahr, keinen Höchstwert. Dargestellt sind vorhandene Zahlen, keine neue Rechnung.*
 
-In der Grafik fällt auf: Auch 1994 und 2003 lagen mit je rund 10.200 über der Linie. Das passt dazu, dass die Jahreswerte rechtsschief verteilt sind. 2026 liegt aber deutlich darüber, selbst das untere Ende der Spanne (14.400) liegt höher als diese beiden Jahre.
+In der Grafik fällt auf: Auch 1994 und 2003 lagen mit je rund 10.200 über der Linie. Das sind zugleich die höchsten Jahreswerte der Reihe 1992–2025. 2026 liegt deutlich darüber: Schon das untere Ende der Spanne (14.400) liegt höher als die Schätzwerte dieser beiden Jahre und als deren obere Intervallgrenzen (11.400 und 11.600).
 
 Das Modell geht für die Jahre 1992 bis 2025 von einem Mittelwert von rund 2.955 hitzebedingten Sterbefällen pro Jahr aus. Ein normales Jahr läge demnach bei bis zu etwa 8.700. So weit reicht das 95-Prozent-Prognoseintervall nach oben. Der damals vorläufige Wert für 2026 lag mit 15.800 etwa 4,5 Standardabweichungen über dem Referenzbereich. Auch in den acht vorab festgelegten Sensitivitätsanalysen blieb die Richtung gleich (oberhalb der Bandbreite) [3].
 
@@ -60,7 +60,7 @@ Vier Punkte sind dabei wichtig:
 
 Unsere Analyse beantwortet nur, ob 2026 außerhalb der bisherigen Schwankungsbreite liegt, nicht, warum [3].
 
-Wie viel der Klimawandel zu einer einzelnen Hitzewelle beiträgt, untersucht die Attributionsforschung. Zur Juni-Hitzewelle 2026 hat die Initiative World Weather Attribution (WWA) am 26. Juni 2026 eine Analyse veröffentlicht [9]. Sie untersucht die Hitzewelle vom 18. bis 29. Juni in Westeuropa (Frankreich, Deutschland, Italien, Spanien, Südengland). Für Deutschland allein nennt die Seite keine eigenen Zahlen.
+Wie viel der Klimawandel zu einer einzelnen Hitzewelle beiträgt, untersucht die Attributionsforschung. Zur Juni-Hitzewelle 2026 hat die Initiative World Weather Attribution (WWA) am 26. Juni 2026 eine Analyse veröffentlicht [9]. Sie untersucht die Hitzewelle vom 18. bis 29. Juni (Seite vom 26. Juni) in Frankreich, Deutschland, Italien, Spanien und Südengland. Für Deutschland allein nennt die Seite keine eigenen Zahlen.
 
 Die Initiative vergleicht die Hitzewelle mit dem Klima früherer Jahre. Im Klima von 1976 wären solche Temperaturen im Juni „praktisch unmöglich“ gewesen („virtually impossible“). Im Klima von 2003 wären die Tageshöchstwerte etwa zehnmal und die Nachttemperaturen mehr als hundertmal seltener gewesen als heute [9]. Der MedienKlimaBericht schreibt dazu gröber: Ohne die Erderhitzung wäre die Juni-Hitzewelle so gut wie unmöglich gewesen [8]. Das steht so nicht auf der Seite der Initiative.
 
